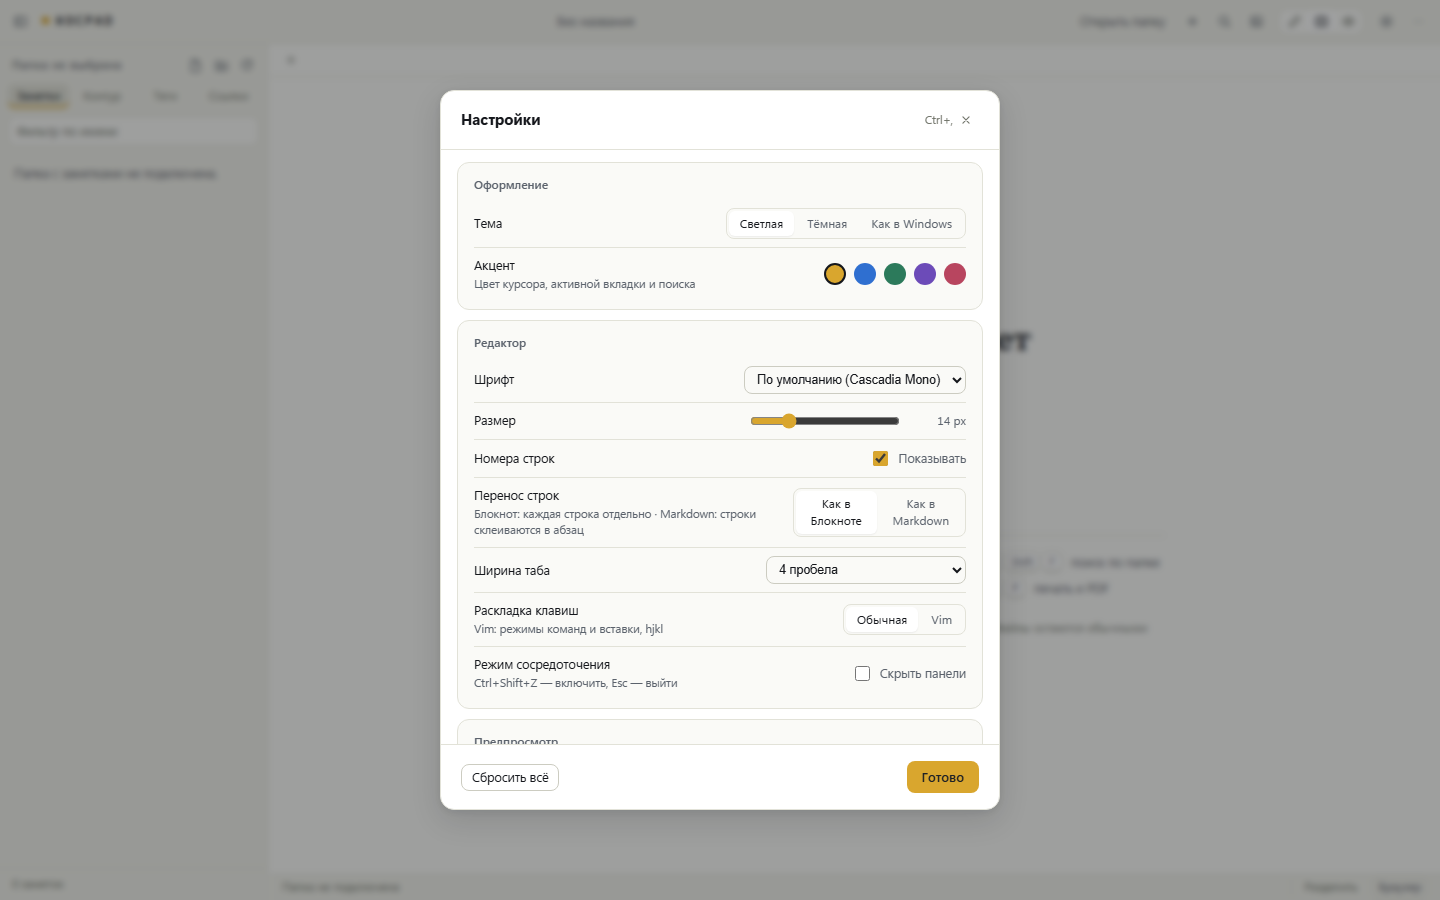
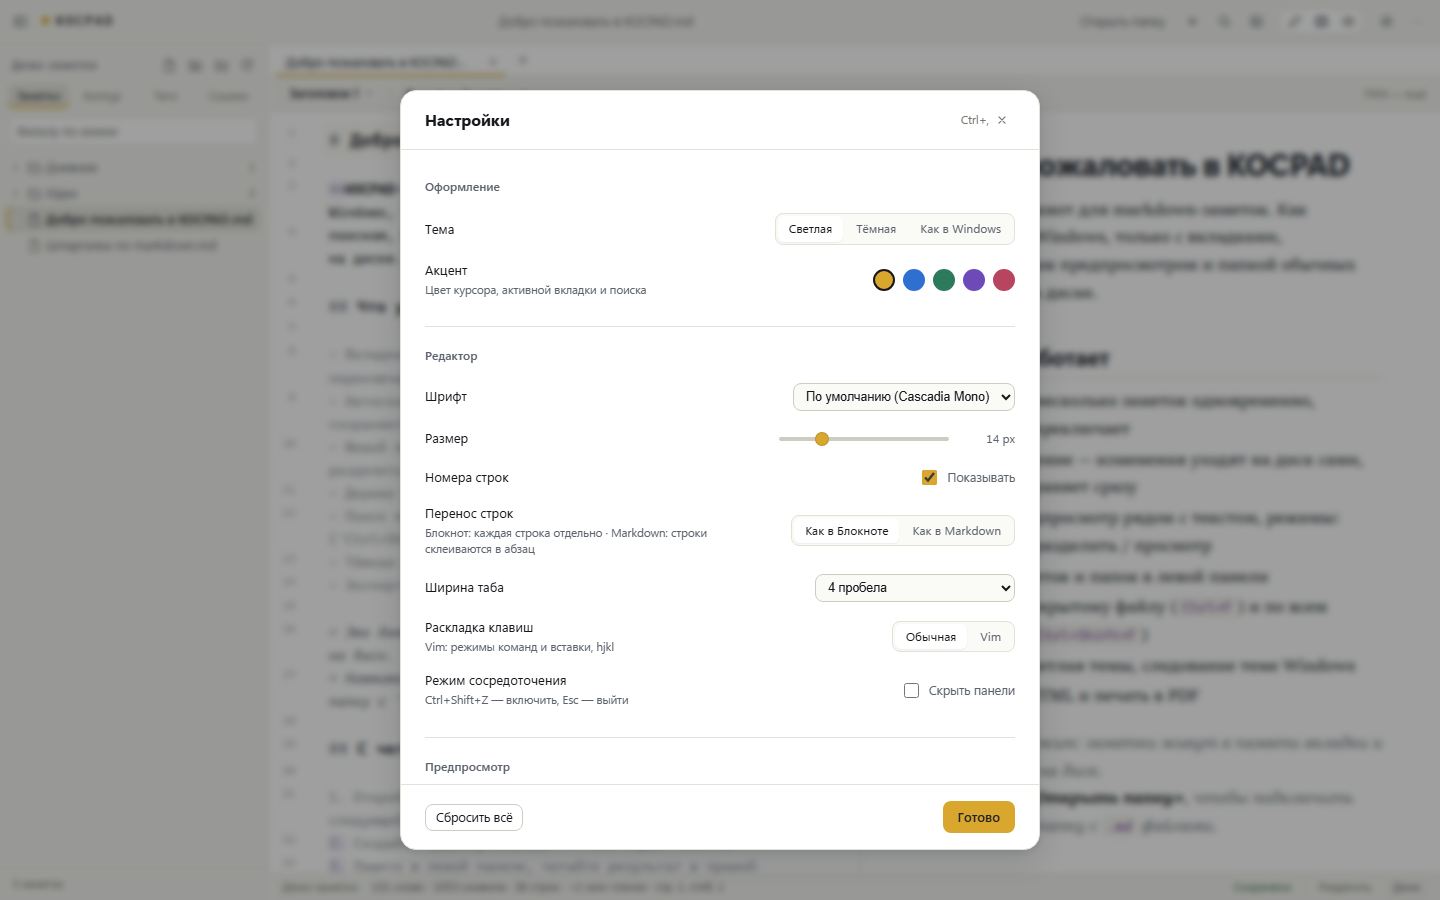
feat(ui): settings as a calm preference sheet
- Replaced the nested card sections with one 640px sheet, hairline separators,
  8px rows and 16/24px chrome; removed the duplicate card CSS overrides.
- Custom 4px slider track with an amber thumb and a thin neutral scrollbar.
- 'Сбросить обучение' is right-aligned again instead of stretching.
- Updated settings screenshot, Russian release notes and version beta.11.

diff --git a/src/style.css b/src/style.css
@@ -3199,3 +3199,132 @@ html[data-theme="dark"] .assistant__bar-fill {
   padding: 12px 16px;
   border-top: 1px solid var(--line);
 }
+
+/* settings: calm preference sheet */
+
+.settings {
+  width: min(640px, 100%);
+  max-height: min(760px, 86vh);
+  border-radius: 16px;
+}
+
+.settings__head {
+  padding: 16px 24px;
+}
+
+.settings__title {
+  font-size: 16px;
+}
+
+.settings__body {
+  padding: 8px 24px 16px;
+  scrollbar-width: thin;
+  scrollbar-color: var(--line-strong) transparent;
+}
+
+.settings__body::-webkit-scrollbar {
+  width: 10px;
+}
+
+.settings__body::-webkit-scrollbar-track {
+  background: transparent;
+}
+
+.settings__body::-webkit-scrollbar-thumb {
+  border: 3px solid transparent;
+  border-radius: 8px;
+  background: var(--line-strong);
+  background-clip: content-box;
+}
+
+.settings__section {
+  padding: 20px 0;
+  margin: 0;
+  border: none;
+  border-bottom: 1px solid var(--line);
+  border-radius: 0;
+  background: transparent;
+}
+
+.settings__section:last-child {
+  padding-bottom: 8px;
+  margin: 0;
+  border-bottom: none;
+}
+
+.settings__section-title {
+  margin: 0 0 10px;
+  font-family: var(--font-ui);
+  font-size: 12px;
+  font-weight: 600;
+  letter-spacing: 0;
+  color: var(--ink-muted);
+}
+
+.settings__row {
+  display: grid;
+  grid-template-columns: minmax(0, 1fr) auto;
+  align-items: center;
+  gap: 24px;
+  padding: 8px 0;
+  border: none;
+}
+
+.settings__label {
+  font-size: 13px;
+}
+
+.settings__hint {
+  max-width: 46ch;
+  color: var(--ink-muted);
+  font-size: 11.5px;
+  line-height: 1.45;
+}
+
+.settings__foot {
+  padding: 16px 24px;
+}
+
+.settings__range {
+  width: 170px;
+  height: 20px;
+  appearance: none;
+  background: transparent;
+  cursor: pointer;
+}
+
+.settings__range::-webkit-slider-runnable-track {
+  height: 4px;
+  border-radius: 2px;
+  background: var(--line-strong);
+}
+
+.settings__range::-webkit-slider-thumb {
+  width: 14px;
+  height: 14px;
+  margin-top: -5px;
+  border: 1px solid rgba(0, 0, 0, 0.12);
+  border-radius: 50%;
+  appearance: none;
+  background: var(--accent);
+}
+
+.settings__range:focus-visible {
+  outline-offset: 4px;
+}
+
+/* The shell is focused programmatically; controls keep their focus ring. */
+.settings:focus,
+.settings:focus-visible,
+.overlay .settings:focus,
+.overlay .settings:focus-visible {
+  outline: none !important;
+}
+
+/* action rows must stay flex after the settings grid rule */
+.settings__row.settings__row--actions {
+  display: flex;
+  justify-content: flex-end;
+  gap: 8px;
+  padding: 4px 0 0;
+}

diff --git a/README.md b/README.md
@@ -4,7 +4,7 @@
   <p><b>Следующая версия. Здесь коротко: что поменялось и что проверяем.</b></p>
 
   [![build](https://github.com/ShiDikALexey/KOCPAD/actions/workflows/build.yml/badge.svg?branch=beta)](https://github.com/ShiDikALexey/KOCPAD/actions/workflows/build.yml)
-  [![beta](https://img.shields.io/badge/бета-1.5.3--beta.10-orange)](https://github.com/ShiDikALexey/KOCPAD/tree/beta)
+  [![beta](https://img.shields.io/badge/бета-1.5.3--beta.11-orange)](https://github.com/ShiDikALexey/KOCPAD/tree/beta)
   [![stable](https://img.shields.io/github/v/release/ShiDikALexey/KOCPAD?label=stable)](https://github.com/ShiDikALexey/KOCPAD/releases/latest)
 
   <sub>Русский · <a href="README.en.md">English</a> · <a href="https://github.com/ShiDikALexey/KOCPAD/blob/main/README.md">полное описание (main)</a></sub>
@@ -12,7 +12,7 @@
 
 ---
 
-Это ветка `beta`. Сейчас здесь предрелизная сборка `1.5.3-beta.10`: канал
+Это ветка `beta`. Сейчас здесь предрелизная сборка `1.5.3-beta.11`: канал
 обновлений стабильный/бета, индикатор доступного обновления, пакетные исправления
 помощника и печать только текста. Стабильная версия `1.5.2` лежит в
 [main](https://github.com/ShiDikALexey/KOCPAD/blob/main/README.md); ниже — что
@@ -41,6 +41,11 @@
 
 Ещё в CI появился запуск собранного `.exe`: раньше проверялась только
 веб-страница.
+
+## Что нового в 1.5.3-beta.11
+
+- Настройки переделаны: один спокойный список вместо вложенных карточек,
+  аккуратный слайдер и тонкий скролл; «Сбросить обучение» больше не на всю ширину.
 
 ## Что нового в 1.5.3-beta.10
 

diff --git a/README.en.md b/README.en.md
@@ -4,7 +4,7 @@
   <p><b>The next version. Just what changed and what we are checking.</b></p>
 
   [![build](https://github.com/ShiDikALexey/KOCPAD/actions/workflows/build.yml/badge.svg?branch=beta)](https://github.com/ShiDikALexey/KOCPAD/actions/workflows/build.yml)
-  [![beta](https://img.shields.io/badge/beta-1.5.3--beta.10-orange)](https://github.com/ShiDikALexey/KOCPAD/tree/beta)
+  [![beta](https://img.shields.io/badge/beta-1.5.3--beta.11-orange)](https://github.com/ShiDikALexey/KOCPAD/tree/beta)
   [![stable](https://img.shields.io/github/v/release/ShiDikALexey/KOCPAD?label=stable)](https://github.com/ShiDikALexey/KOCPAD/releases/latest)
 
   <sub><a href="README.md">Русский</a> · English · <a href="https://github.com/ShiDikALexey/KOCPAD/blob/main/README.en.md">full description (main)</a></sub>
@@ -12,7 +12,7 @@
 
 ---
 
-This is the `beta` branch. It currently carries the pre-release `1.5.3-beta.10`:
+This is the `beta` branch. It currently carries the pre-release `1.5.3-beta.11`:
 stable/beta update channels, the available-update indicator, batch assistant fixes
 and text-only printing. Stable `1.5.2` lives in
 [main](https://github.com/ShiDikALexey/KOCPAD/blob/main/README.en.md); below is what
@@ -40,6 +40,11 @@ a note rewrites links in other notes, and search no longer shows results from a 
 query.
 
 CI also launches the built `.exe` now; before, only the web page was tested.
+
+## What is new in 1.5.3-beta.11
+
+- Settings are one calm list instead of nested cards, with a quiet slider and
+  a thin scrollbar; the learning reset no longer stretches full width.
 
 ## What is new in 1.5.3-beta.10
 

diff --git a/CHANGELOG.md b/CHANGELOG.md
@@ -9,6 +9,17 @@ All notable changes to KOCPAD are documented here. The format follows
 > [docs/VERSIONING.md](docs/VERSIONING.md) for the honest maturity assessment and
 > the rules used from now on. The history below is left as written.
 
+## [1.5.3-beta.11] — 2026-11-23
+
+### Changed
+
+- **Settings are a calm list instead of nested cards.** One 640px sheet,
+  sections separated by hairlines, 8px rows, 16/24px chrome. The card borders,
+  the double row rules and the 560px squeeze are gone.
+- Slider track is a quiet 4px line with an amber thumb instead of the system
+  black track; the settings body has a thin neutral scrollbar.
+- «Сбросить обучение» no longer stretches across the whole row.
+
 ## [1.5.3-beta.10] — 2026-11-23
 
 ### Fixed
